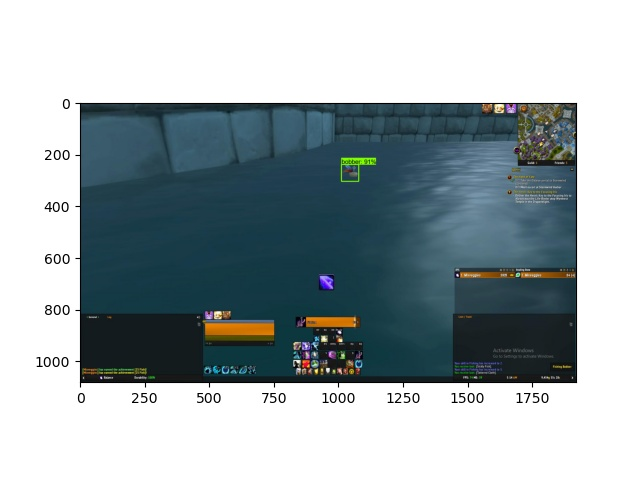
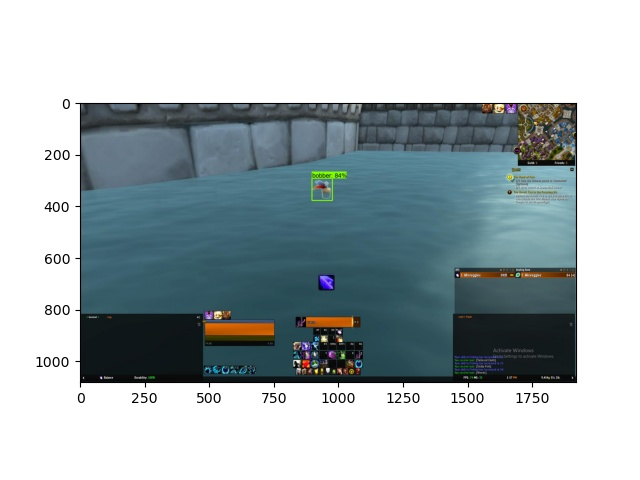
initial build complete need more refinement

diff --git a/scMLconcept.py b/scMLconcept.py
@@ -17,6 +17,28 @@ from PIL import Image
 import matplotlib.pyplot as plt
 import warnings
 import pyautogui as pag
+import pyaudio as pa
+import struct
+
+
+#constants
+CHUNK = 1024 * 2
+FORMAT = pa.paInt16
+CHANNEL = 1
+RATE = 44100
+
+#pyaudio class instant
+p = pa.PyAudio()
+
+ #stream object to get data from microphone
+stream = p.open(
+    format = FORMAT,
+    channels = CHANNEL,
+    rate = RATE,
+    input = True,
+    output = True,
+    frames_per_buffer = CHUNK
+)
 
 
 #prep work
@@ -50,9 +72,12 @@ category_index = label_map_util.create_categories_from_labelmap(PATH_TO_LABELS, 
 
 
 while True:
+
+    #need to wait because blizzard is shit
+    time.sleep(1)
     #cast fish
     pag.press('e')
-    time.sleep(2)
+    time.sleep(3)
 #capture image
     pag.screenshot(PATH_TO_IMAGE)
 
@@ -74,17 +99,7 @@ while True:
     detections['num_detections'] = num_detections
     detections['detection_classes'] = detections['detection_classes'].astype(np.int64)
     image_np_with_detections = image_np.copy()
-#draw the box on to the image
-    viz_utils.visualize_boxes_and_labels_on_image_array(
-        image_np_with_detections,
-        detections['detection_boxes'],
-        detections['detection_classes'],
-        detections['detection_scores'],
-        category_index,
-        use_normalized_coordinates=True,
-        max_boxes_to_draw=200,
-        min_score_thresh=.30,
-        agnostic_mode=False)
+
 
 #extract the mid point of the box
     xmax = detections['detection_boxes'][0][3]
@@ -99,11 +114,27 @@ while True:
 #move mouse
     pag.moveTo(xmid,ymid)
 
-    plt.figure()
-    plt.imshow(image_np_with_detections)
-    print('Done')
-    plt.savefig("afterlabel.jpg")
+   
+    start_time = time.time()
+    noFish = True
+    while noFish:
+        #binary data
+        data = stream.read(CHUNK)
 
-    time.sleep(10)
+        #convert data to integers, make up the array
+        data_int = struct.unpack(str(2 * CHUNK) + 'B', data)
 
+        # create np array
+        data_np = np.array(data_int, dtype='b')[::2] + 128
+        end_time = time.time()
+        fish_time = end_time - start_time
+        if data_np[0] > 210:
+            time.sleep(1)
+            pag.click(button = 'right')
+            noFish = False
+        elif fish_time > 20:
+            noFish = False
+
+   
+    
     

diff --git a/audioMonitor.py b/audioMonitor.py
@@ -1,0 +1,44 @@
+import pyaudio as pa
+import numpy as np
+import os 
+import time
+import struct
+import pyautogui as pag
+
+#constants
+CHUNK = 1024 * 2
+FORMAT = pa.paInt16
+CHANNEL = 1
+RATE = 44100
+
+#pyaudio class instant
+p = pa.PyAudio()
+
+#stream object to get data from microphone
+stream = p.open(
+    format = FORMAT,
+    channels = CHANNEL,
+    rate = RATE,
+    input = True,
+    output = True,
+    frames_per_buffer = CHUNK
+)
+
+print('stream stated')
+
+while True:
+    noFish = True
+    while noFish:
+        #binary data
+        data = stream.read(CHUNK)
+
+        #convert data to integers, make up the array
+        data_int = struct.unpack(str(2 * CHUNK) + 'B', data)
+
+        # create np array
+        data_np = np.array(data_int, dtype='b')[::2] + 128
+        print(data_np[0])
+        if data_np[0] > 200:
+            pag.click(button = 'right')
+            noFish = False
+
